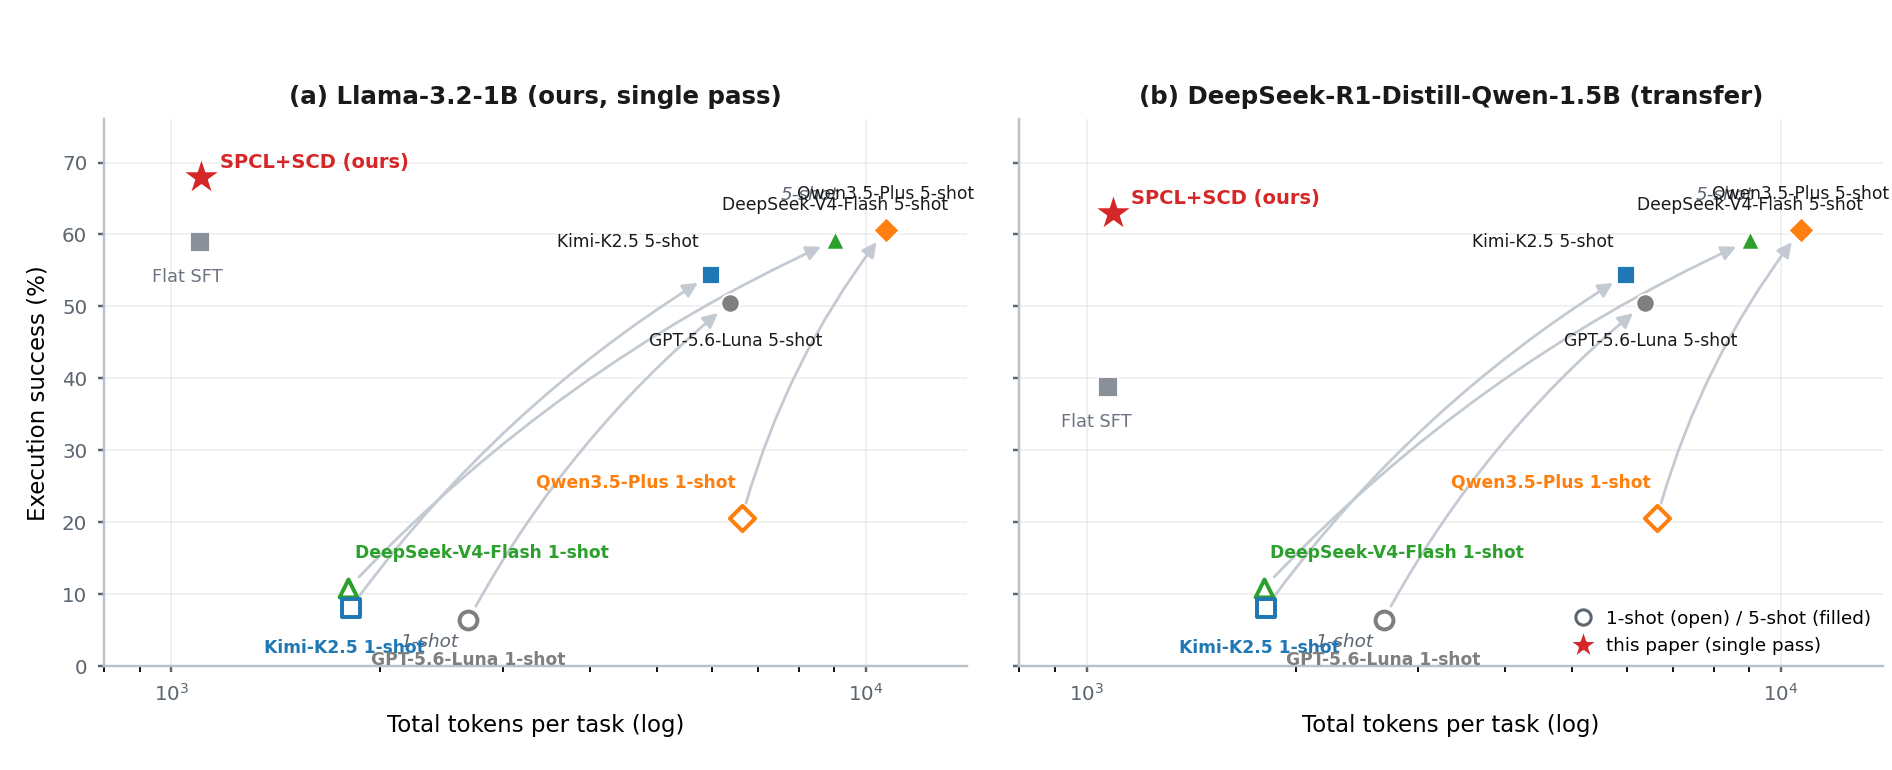
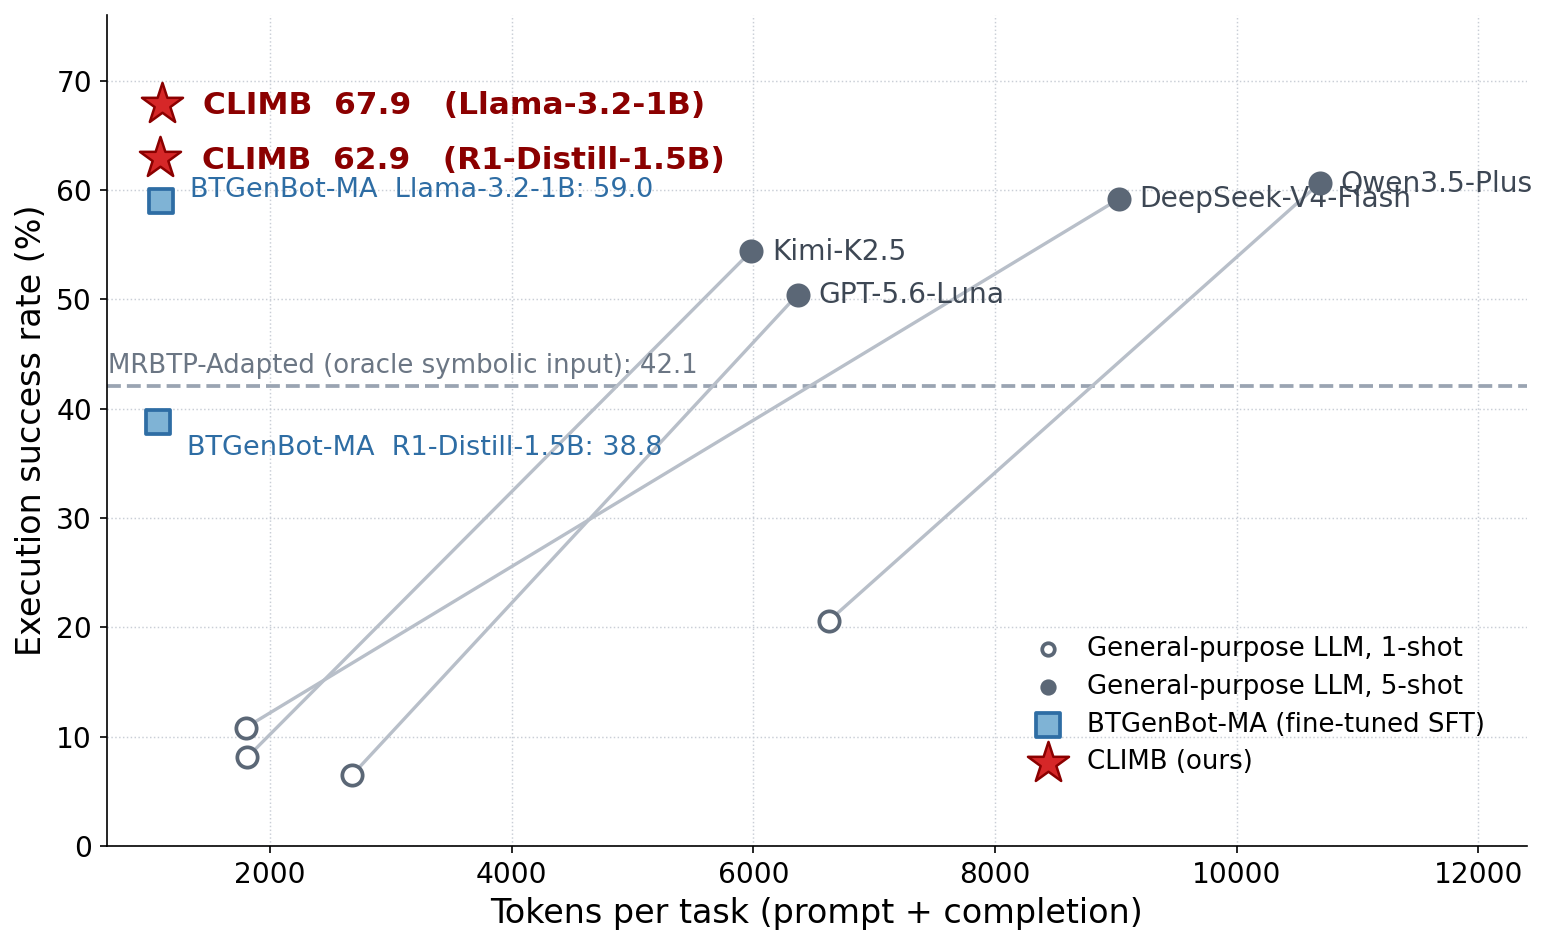
Project page refresh: paper-style BT diagrams, smoother replay videos, Pareto figure, paper-format results table
- BT figures redrawn per paper conventions (glyph squares for
  Sequence/Fallback/Parallel, ellipses for conditions, rectangles for actions)
- replay videos re-cut: trim pickup snap (heavy transport) and replace the
  wall-blocked relay with case_39; captions drop domain names
- dataset schematic: move reject/resample label off the boxes, fix 'faluts' typo
- results table follows the paper (SR/Tokens x 1-shot/5-shot); add large
  success-vs-token Pareto figure; drop the unreadable pass@k panel
- hero: full title on one line; Benchmark section renamed Dataset

diff --git a/docs/index.html b/docs/index.html
@@ -23,11 +23,10 @@
 <body>
 
 <section class="hero">
-  <div class="hero-body"><div class="container is-max-desktop">
+  <div class="hero-body"><div class="container is-max-widescreen">
     <div class="columns is-centered has-text-centered">
-      <div class="column is-four-fifths">
-        <h1 class="title is-1 publication-title">CLIMB</h1>
-        <h2 class="subtitle is-4">Curriculum Learning for Multi-Agent Behavior Tree Generation<br>with Small Language Models</h2>
+      <div class="column is-10">
+        <h1 class="title is-1 publication-title" style="font-size:1.42rem;white-space:nowrap;overflow-x:auto">CLIMB: Curriculum Learning for Multi-Agent Behavior Tree Generation with Small Language Models</h1>
         <div class="is-size-5 publication-authors">
           <span class="author-block">Yichen Wang<sup>1</sup>,</span>
           <span class="author-block"><strong>Zhongxuan Cai<sup>1,*</sup></strong></span>,
@@ -36,8 +35,8 @@
           <span class="author-block">Tianjian Jiang<sup>1</sup>,</span>
           <span class="author-block">Yuanxi Peng<sup>1</sup></span>
         </div>
-        <div class="is-size-6 publication-authors" style="margin-top:.4em">
-          <span class="author-block"><sup>1</sup>College of Computer Science and Technology,<br>National University of Defense Technology, Changsha, China</span>
+        <div class="is-size-6 publication-authors" style="margin-top:.4em;white-space:nowrap">
+          <span class="author-block"><sup>1</sup>College of Computer Science and Technology, National University of Defense Technology, Changsha, China</span>
         </div>
         <div class="content has-text-centered" style="margin-top:1.2em">
           <span class="link-block"><a href="assets/CLIMB-paper.pdf" class="external-link button is-normal is-rounded is-dark">
@@ -98,7 +97,7 @@
   <div class="columns">
     <div class="column">
       <img src="static/images/replay_library_bookcase.gif" alt="Joint heavy transport replay, library domain" style="width:100%;border-radius:8px">
-      <p style="margin-top:.6em"><strong>Joint heavy transport (library).</strong> Two robots co-carry an oak
+      <p style="margin-top:.6em"><strong>Joint heavy transport.</strong> Two robots co-carry an oak
       bookcase to the reading hall; the restoration-lab passage may be blocked, forcing a
       <code>ClearPath</code> fallback recovery. <strong>CLIMB completes the mission</strong> while flat SFT and
       all four 5-shot general-purpose LLM baselines fail.</p>
@@ -107,17 +106,17 @@
     </div>
     <div class="column">
       <img src="static/images/replay_greenhouse_relay.gif" alt="Relay handover transport replay, greenhouse domain" style="width:100%;border-radius:8px">
-      <p style="margin-top:.6em"><strong>Relay handover transport (greenhouse).</strong> A fertilizer bag is
+      <p style="margin-top:.6em"><strong>Relay handover transport.</strong> A fertilizer bag is
       relayed across robots to the compost area over a blocked passage. <strong>CLIMB completes the mission</strong>
       while flat SFT, GPT-5.6-Luna, and DeepSeek-V4-Flash fail.</p>
       <details style="margin-top:.4em"><summary style="cursor:pointer;color:#3273dc">Executed behavior tree (CLIMB output)</summary>
-        <img src="static/images/bt_case43.png" style="width:100%;margin-top:.5em;border:1px solid #e8e8e8;border-radius:8px"></details>
+        <img src="static/images/bt_case39.png" style="width:100%;margin-top:.5em;border:1px solid #e8e8e8;border-radius:8px"></details>
     </div>
   </div>
 </div></section>
 
 <section class="section"><div class="container is-max-desktop">
-  <h2 class="title is-3">Benchmark</h2>
+  <h2 class="title is-3">Dataset</h2>
   <div class="content has-text-centered"><img src="static/images/dataset_pipeline.png" alt="benchmark pipeline" style="max-width:100%"></div>
   <div class="content">
     <p>We release a multi-agent mission-to-behavior-tree benchmark: <strong>480 held-out coordination
@@ -132,27 +131,32 @@
   <h2 class="title is-3">Results</h2>
   <div class="content">
     <table class="table is-bordered results" style="margin:auto">
-      <thead><tr><th>Method</th><th>Input</th><th>Relay</th><th>Joint</th><th>All 480</th></tr></thead>
+      <thead>
+        <tr><th rowspan="2">Model</th><th colspan="2">SR (%)</th><th colspan="2">Tokens</th></tr>
+        <tr><th>1-shot</th><th>5-shot</th><th>1-shot</th><th>5-shot</th></tr>
+      </thead>
       <tbody>
-        <tr><td>GPT-5.6-Luna (5-shot)</td><td>NL</td><td>—</td><td>—</td><td>50.42</td></tr>
-        <tr><td>Kimi-K2.5 (5-shot)</td><td>NL</td><td>—</td><td>—</td><td>54.38</td></tr>
-        <tr><td>DeepSeek-V4-Flash (5-shot)</td><td>NL</td><td>—</td><td>—</td><td>59.17</td></tr>
-        <tr><td>Qwen3.5-Plus (5-shot)</td><td>NL</td><td>—</td><td>—</td><td>60.63</td></tr>
-        <tr><td>BTGenBot-MA (Llama-3.2-1B)</td><td>NL</td><td>—</td><td>—</td><td>59.0</td></tr>
-        <tr><td>MRBTP-Adapted<sup>†</sup></td><td>oracle symbolic</td><td>65.8</td><td>18.3</td><td>42.1</td></tr>
-        <tr class="ours-row"><td>CLIMB (Llama-3.2-1B)</td><td>NL</td><td>80.0</td><td>55.8</td><td>67.9</td></tr>
+        <tr><td>GPT-5.6-Luna</td><td>6.46</td><td>50.42</td><td>2,678</td><td>6,366</td></tr>
+        <tr><td>Kimi-K2.5</td><td>8.12</td><td>54.38</td><td>1,813</td><td>5,981</td></tr>
+        <tr><td>DeepSeek-V4-Flash</td><td>10.83</td><td>59.17</td><td>1,799</td><td>9,024</td></tr>
+        <tr><td>Qwen3.5-Plus</td><td>20.62</td><td>60.63</td><td>6,628</td><td>10,686</td></tr>
+        <tr><td>BTGenBot-MA (Llama-3.2-1B)</td><td colspan="2">59.0</td><td colspan="2">1,102</td></tr>
+        <tr><td>BTGenBot-MA (R1-Distill-Qwen-1.5B)</td><td colspan="2">38.8</td><td colspan="2">1,076</td></tr>
+        <tr><td>MRBTP-Adapted<sup>&dagger;</sup></td><td colspan="2">42.1</td><td colspan="2">&mdash;</td></tr>
+        <tr class="ours-row"><td>CLIMB (Llama-3.2-1B-Instruct)</td><td colspan="2"><strong>67.9</strong></td><td colspan="2">1,104</td></tr>
+        <tr class="ours-row"><td>CLIMB (R1-Distill-Qwen-1.5B)</td><td colspan="2"><strong>62.9</strong></td><td colspan="2">1,092</td></tr>
       </tbody>
     </table>
-    <p class="is-size-7">† Official MABTP search with oracle nominal formalization; its reactive trees are
+    <p class="is-size-7">&dagger; Official MABTP search with oracle nominal formalization; its reactive trees are
     executed natively by the same executor; no reference plan or target tree exposed; LLM subtree plugin disabled.
     Despite privileged input, it lags behind: its fallbacks can only retry or take over equivalent nominal
     actions, and its large backup trees stall on tightly coupled three-robot tasks.</p>
   </div>
-  <div class="columns" style="margin-top:1.5em">
-    <div class="column has-text-centered"><img src="static/images/pareto.png" style="max-width:100%"><p class="is-size-7">Success vs. token cost.</p></div>
-    <div class="column has-text-centered"><img src="static/images/passk.png" style="max-width:100%"><p class="is-size-7">Pass@k with executor-guided verification (EGVD).</p></div>
-  </div>
-</div></section>
+  <div class="content has-text-centered" style="margin-top:1.6em">
+    <img src="static/images/pareto.png" alt="Success rate vs. token cost" style="max-width:100%">
+    <p class="is-size-7">Execution success vs. token cost. CLIMB sits in the upper-left corner:
+    highest success at roughly one-fifth to one-tenth of the token cost of the best 5-shot LLM.</p>
+  </div></section>
 
 <section class="section"><div class="container is-max-desktop">
   <h2 class="title is-3">Demo: mission → executable behavior tree</h2>
